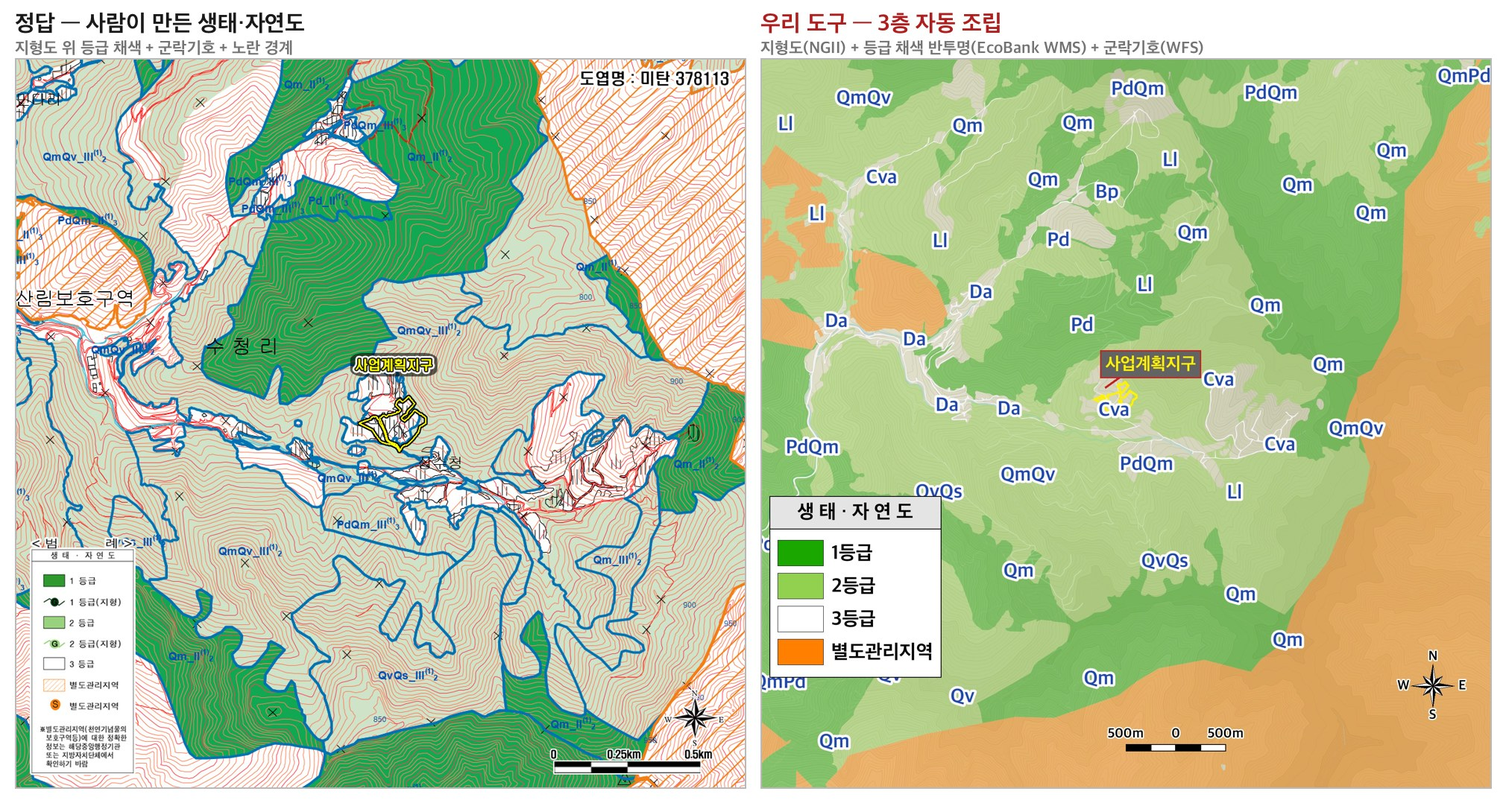
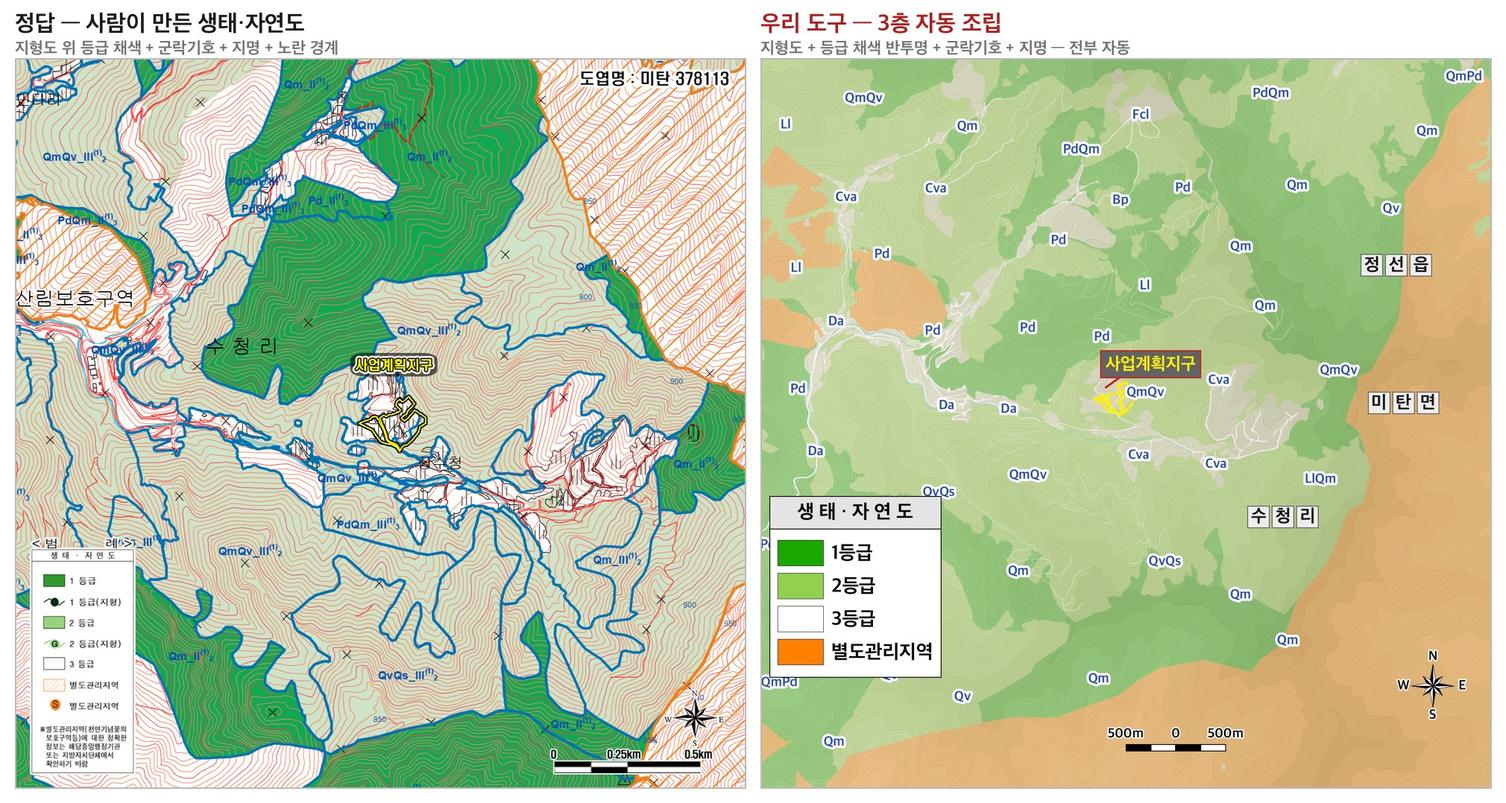
생태자연도 조립 다듬기 — 등고선을 살리고 기호를 가라앉히고 지명을 얹었다
채색 투명도 45% 가 등고선·지명을 눌러 죽였고, 군락기호가 지명보다 크니
코드가 지도를 덮은 것처럼 보였다.

  채색 45% → 34% (정답의 느낌)
  군락기호 글자 38 → 26 (place 요소에 size 지원)
  지명(읍면동·리)을 admin 낱자 박스로 — 수청리·미탄면·정선읍·마하리
  장식(방위표·축척·범례) 자리를 지명이 피하게

diff --git a/engine/ecology.py b/engine/ecology.py
@@ -234,11 +234,15 @@ def assess(lon, lat, half_m=900, site_rings=None, site_probes=()):
 
 
 # ── 삽도 조립 — 정답과 같은 3층 ────────────────────────────────────────────
-def compose(lon, lat, topo_png, res, center_px, alpha=0.45):
+def compose(lon, lat, topo_png, res, center_px, alpha=0.34):
     """지형도 + 등급 채색 반투명 + 군락기호 → (합성 이미지, 라벨 요소들).
 
     정답 생태자연도가 이 3층이다. 채색만 있으면 등고선·마을이 안 보이고,
     지형도만 있으면 등급이 없다.
+
+    ⚠ 채색 투명도를 45% 로 하니 **등고선·지명이 눌려 죽었다** — 34% 가 정답의 느낌이다.
+       군락기호도 지명보다 크면 코드가 지도를 덮은 것처럼 보인다. 기호는 작게(26),
+       지명은 `admin` 낱자 박스로 따로 얹는 것이 정답 구성이다.
 
     ⚠ 좌표계 정합이 관건이다 — 지형도는 EPSG:5179 타일인데 EcoBank 는 5186 이 기본이다.
        **WMS 가 5179 bbox 도 받아 준다.** 지형도 캔버스의 5179 bbox 를 역산해 같은
@@ -285,7 +289,8 @@ def compose(lon, lat, topo_png, res, center_px, alpha=0.45):
         if any(math.dist((px, py), s) < 150 for s in seen):
             continue
         seen.append((px, py))
-        els.append({"type": "place", "at": [round(px, 1), round(py, 1)], "text": sym})
+        els.append({"type": "place", "at": [round(px, 1), round(py, 1)],
+                    "text": sym, "size": 26})
     return base.convert("RGB"), els
 
 

diff --git a/engine/figure_overlay.py b/engine/figure_overlay.py
@@ -643,7 +643,7 @@ def render(spec, out_path=None):
                        el.get("vertical", True))
             d = ImageDraw.Draw(im)
         elif t == "place":
-            draw_place(d, el["at"], el["text"], k, F(38))
+            draw_place(d, el["at"], el["text"], k, F(el.get("size", 38)))
         elif t == "scalebar":
             length = el.get("length_px") or round(im.width * DEFAULT_SCALEBAR_RATIO)
             label = el.get("label")
